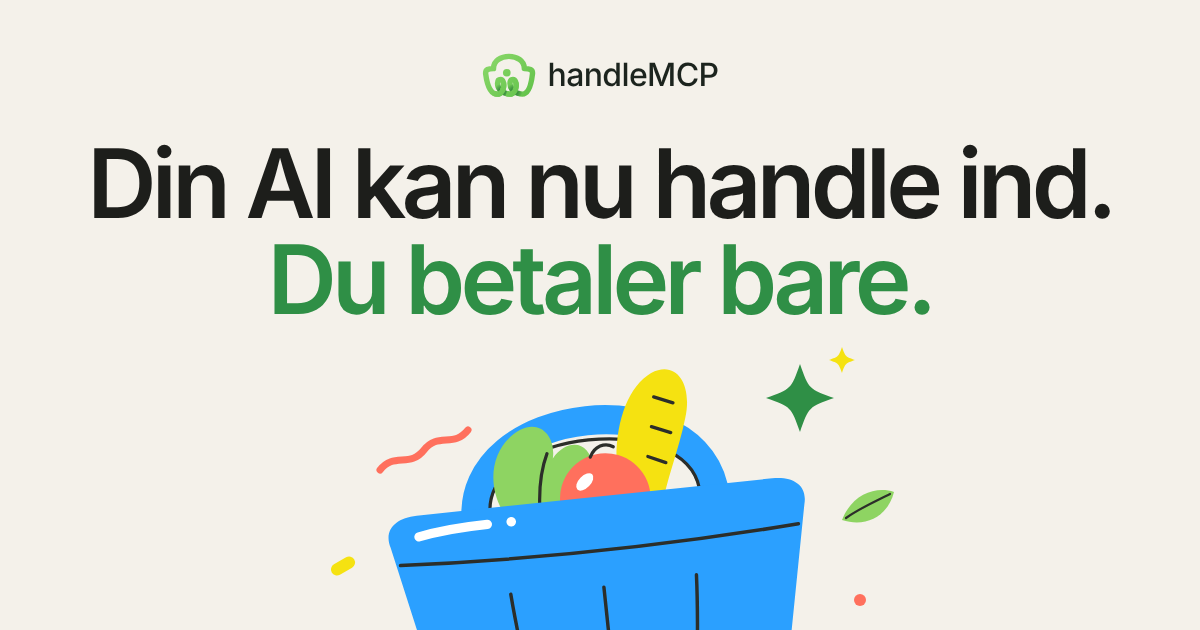
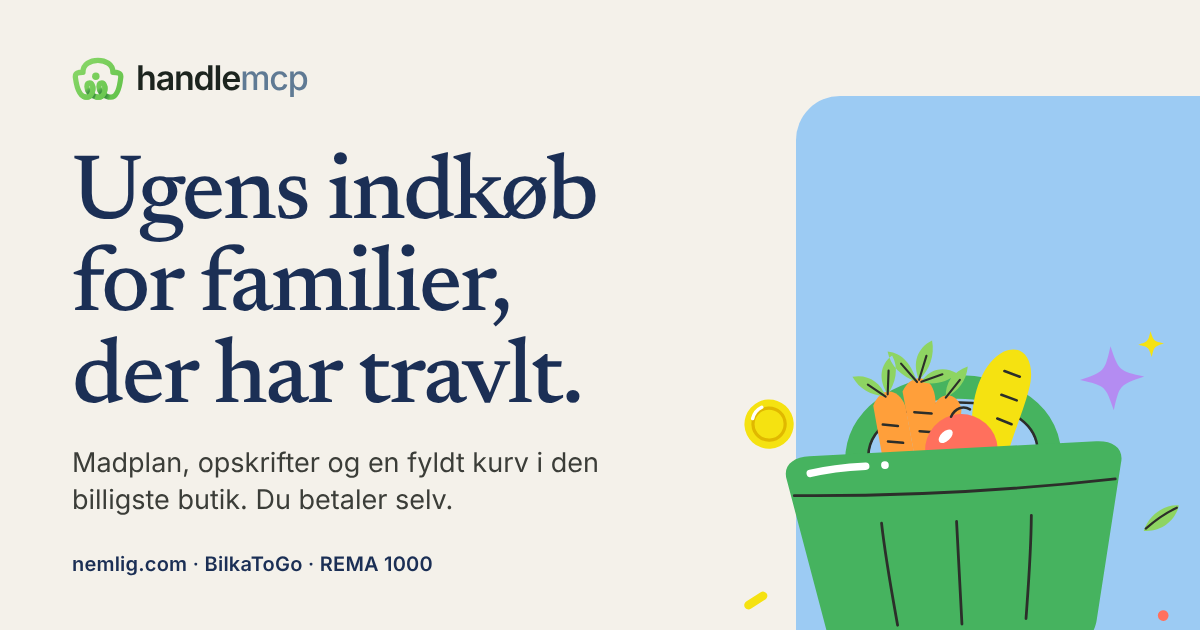
🐛 Share image and browser colour match the hero

diff --git a/index.html b/index.html
@@ -7,7 +7,7 @@
 <meta name="description" content="Fortæl din AI dit husholdningsbudget. Den finder tilbud på nemlig.com, BilkaToGo og REMA 1000 og fylder den billigste kurv. Du betaler, og pengene holder måneden ud. Gratis og open source.">
 <link rel="canonical" href="https://handlemcp.dk/">
 <meta name="robots" content="index, follow, max-image-preview:large">
-<meta name="theme-color" content="#2f8f46">
+<meta name="theme-color" content="#9ccbf3">
 <meta property="og:site_name" content="HandleMCP">
 <meta property="og:locale" content="da_DK">
 <meta property="og:type" content="website">
@@ -17,7 +17,7 @@
 <meta property="og:image" content="https://handlemcp.dk/og.png">
 <meta property="og:image:width" content="1200">
 <meta property="og:image:height" content="630">
-<meta property="og:image:alt" content="HandleMCP. Din AI kan nu handle ind. Du betaler bare. En blå indkøbskurv med grønt, tomat og brød.">
+<meta property="og:image:alt" content="HandleMCP. Ugens indkøb for familier, der har travlt. En grøn indkøbskurv med gulerødder, tomat og brød.">
 <meta name="twitter:card" content="summary_large_image">
 <meta name="twitter:title" content="HandleMCP: spar på madbudgettet med ugens tilbud">
 <meta name="twitter:description" content="Fortæl din AI dit husholdningsbudget. Den finder tilbud på nemlig.com, BilkaToGo og REMA 1000 og fylder den billigste kurv. Du betaler, og pengene holder måneden ud. Gratis og open source.">
